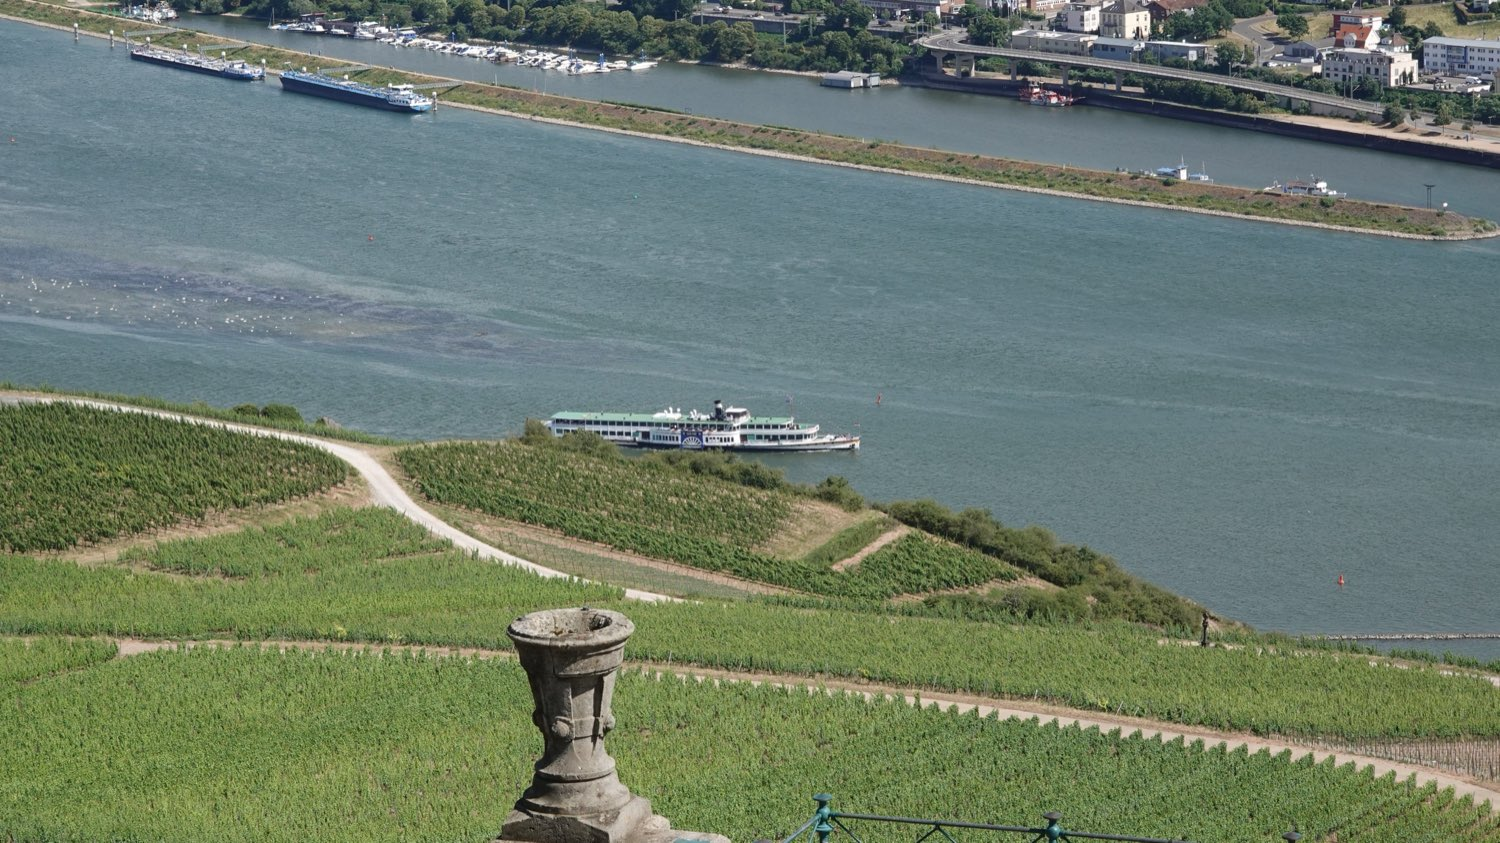
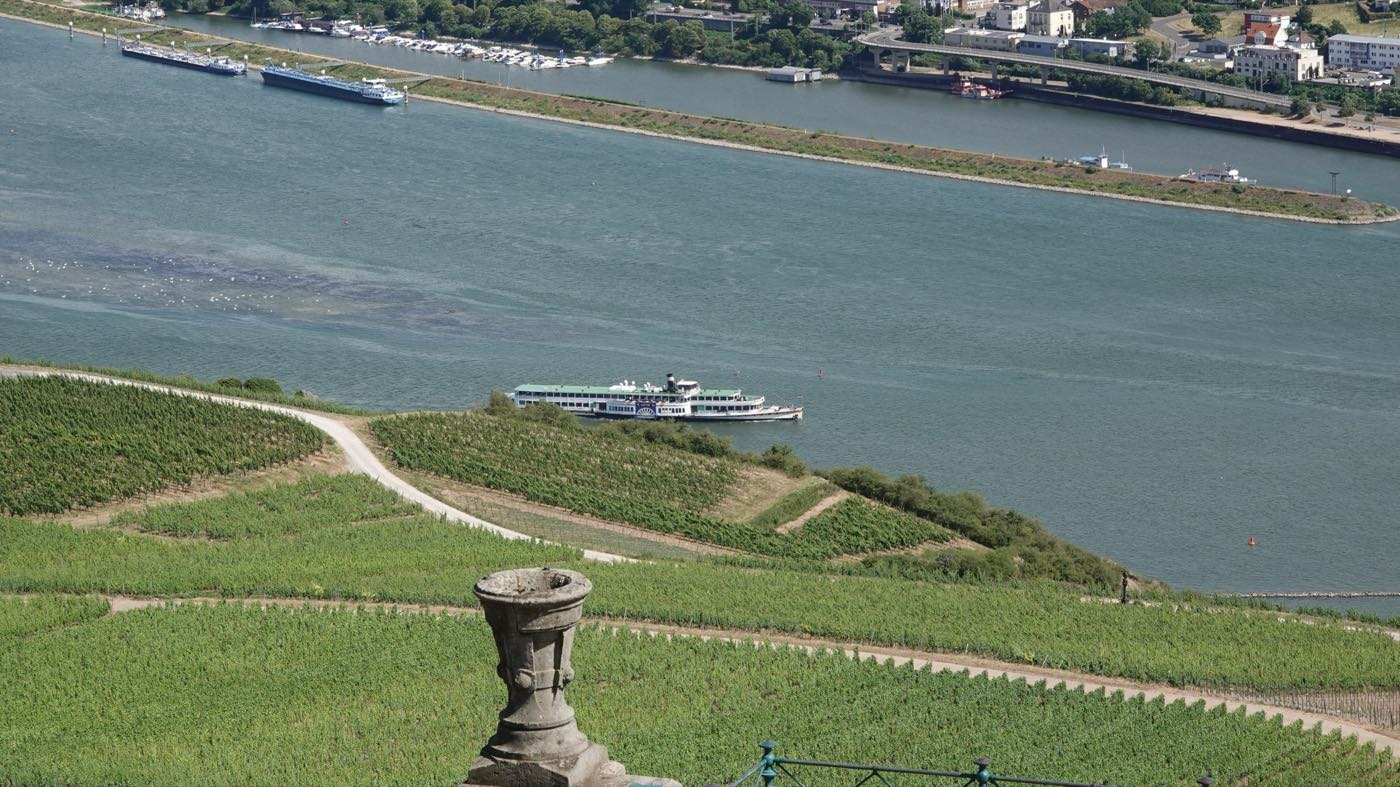
Sprachliche Korrekturen, Fußbereich am Handy einspaltig, Bilder verschlankt

Changed region(s): [[0.5221, 0.5184, 0.5529, 0.5489], [0.4607, 0.4879, 0.4914, 0.5184]]

diff --git a/aus-dem-archiv.html b/aus-dem-archiv.html
@@ -113,12 +113,12 @@
             Die Endstation der Waldbahn und späteren städtischen Straßenbahn hat die Zeiten
             dagegen fast unverändert überdauert. Am 26. Mai 1978 verabschiedeten Mitglieder
             der Schienenverkehrsfreunde dort den letzten Zug der Linie 9. Heute endet an
-            derselben Stelle die Linie 12 – und wer aussteigt, ist in keinen zehn Minuten zu
-            Fuß bei unserem Vereinsraum in Alt Schwanheim.</p>
+            derselben Stelle die Linie 12; von dort sind es zu Fuß keine zehn Minuten bis zu
+            unserem Vereinsraum in Alt Schwanheim.</p>
         </div>
         <div class="bildpaar">
           <figure class="bild">
-            <img src="bilder/bahnhof-schwanheim.jpg" width="1500" height="1000" loading="lazy"
+            <img src="bilder/bahnhof-schwanheim.jpg" width="1400" height="933" loading="lazy"
                  alt="Ein Personenzug mit der Elektrolokomotive 110 442-1 fährt am
                       Empfangsgebäude des Bahnhofs Schwanheim vorbei.">
             <figcaption>Züge fuhren noch vorbei, hielten aber nicht mehr: die Bundesbahnstation
@@ -134,8 +134,7 @@
                  alt="Ein Straßenbahnwagen der Linie 9 mit dem Zielschild „Südbahnhof“ steht an
                       der Endstation Schwanheim. An der Front hängen ein Kranz und ein Schild
                       „Letzte Fahrt der Linie 9“; daneben stehen zwei Männer.">
-            <figcaption>Und die Endstation, die blieb: Verabschiedung der letzten Fahrt
-              auf der Linie 9.
+            <figcaption>Und die Endstation, die blieb: Abschied vom letzten Zug der Linie 9.
               <span class="quelle">Schwanheim · 26. Mai 1978</span>
             </figcaption>
           </figure>
@@ -180,8 +179,8 @@
                alt="Gedrucktes Vereinszeichen: eine kleine Dampflokomotive im Seitenriss,
                     darüber in Frakturschrift „Schienenverkehrsfreunde Frankfurt (M)-Schwanheim
                     e. V.“">
-          <figcaption>Der Vereinsname steht hier noch ausgeschrieben – „Frankfurt
-            (M)-Schwanheim“ statt der heutigen Kurzform „Ffm.“.
+          <figcaption>Der Vereinsname steht hier noch ausgeschrieben: „Frankfurt
+            (M)-Schwanheim“, wo wir ihn heute zu „Ffm.“ verkürzen.
             <!-- PRÜFEN: Aus welchem Jahr stammt diese Vorlage? Bei Peter erfragen. -->
             <span class="quelle">Archiv SVS</span>
           </figcaption>
@@ -202,10 +201,10 @@
         <div class="prosa">
           <p class="marke">Und heute</p>
           <h2>Am Wappenbaum</h2>
-          <p>Am Wappenbaum der Schwanheimer Vereine hängt unser Zeichen links außen, an der
-            Ecke Schwanheimer Bahnstraße – die Straße trägt den Namen bis heute, der Bahnhof
-            ist längst weg. Der Baum steht nah genug an der Endstation, dass er sich in den
-            Scheiben der Straßenbahn spiegelt. Und unser <a href="ueber-uns.html">Schaukasten in der
+          <p>Der Wappenbaum der Schwanheimer Vereine steht an der Ecke Schwanheimer
+            Bahnstraße – die Straße trägt den Namen bis heute, der Bahnhof ist längst
+            verschwunden. Unser Zeichen hängt dort links außen, und der Baum steht so nah an
+            der Endstation, dass er sich in den Scheiben der Straßenbahn spiegelt. Und unser <a href="ueber-uns.html">Schaukasten in der
             Schwarzbachstraße</a> kommt seit jeher ganz ohne auffälliges Logo aus.</p>
           <p>Natürlich hat auch bei uns die Moderne Einzug gehalten, bis hin zu den
             Schrifttypen. Schließlich ist es der Kontrast von Altem und Neuem, der die

diff --git a/wanderfahrt.html b/wanderfahrt.html
@@ -168,15 +168,15 @@
                alt="Eine Wandergruppe in Regenjacken und mit aufgespannten Schirmen geht auf
                     einem nassen Weg auf eine Eisenbahnunterführung zu; oben auf der Brücke
                     fährt ein Zug vorbei.">
-          <figcaption>Zehn Stunden Landregen im Kinzigtal – den Weg dem Wetter anzupassen
-            kam damals nicht in Frage. Immerhin war das Tagesziel, eine Tropfsteinhöhle,
-            trocken.
+          <figcaption>Zehn Stunden Landregen im Kinzigtal. Heute würde man die Strecke
+            wohl anpassen – damals kam das nicht in Frage. Immerhin war das Tagesziel, eine
+            Tropfsteinhöhle, trocken.
             <span class="quelle">Kinzigtal · 2. Juni 1996</span>
           </figcaption>
         </figure>
 
         <figure class="bild">
-          <img src="bilder/wanderfahrt-niederwald-2025.jpg" width="1500" height="843" loading="lazy"
+          <img src="bilder/wanderfahrt-niederwald-2025.jpg" width="1400" height="787" loading="lazy"
                alt="Blick vom Niederwalddenkmal über Weinberge auf den Rhein, auf dem ein
                     Raddampfer und Frachtschiffe unterwegs sind.">
           <figcaption>Ganz anders knapp dreißig Jahre später: ungetrübter Blick vom Niederwalddenkmal

diff --git a/ueber-uns.html b/ueber-uns.html
@@ -126,11 +126,10 @@
           <h2>Der Schaukasten</h2>
           <p>In der Schwarzbachstraße 21 hängt seit fünfzig Jahren unser Schaukasten.
             Andreas Illert gestaltet ihn Monat für Monat neu und sucht dafür jedes Mal ein
-            eigenes Thema aus – gern eines, das auch Leuten Spaß macht, die sonst nicht viel
-            mit der Eisenbahn zu tun haben.</p>
-          <p>Daneben hängt immer das aktuelle Veranstaltungsprogramm. Wer vorbeikommt, weiß
-            also gleich, wann der nächste Vortrag ist – <a href="termine.html">hier stehen
-            die Termine ebenfalls</a>.</p>
+            eigenes Thema aus – gern eines, das auch für Leute interessant ist, die sonst
+            wenig mit der Eisenbahn zu tun haben.</p>
+          <p>Daneben hängt immer das aktuelle Veranstaltungsprogramm. Wer vorbeigeht, weiß
+            also gleich, wann der nächste <a href="termine.html">Vortrag</a> ansteht.</p>
         </div>
       </div>
     </div>

diff --git a/index.html b/index.html
@@ -182,8 +182,8 @@
         <article class="anriss">
           <p class="nummer">02</p>
           <h3>Termine</h3>
-          <p>Vereinsabende mit Lichtbilder- und Videovorträgen, dazu die jährliche
-            Wanderfahrt – die aktuellen Termine finden Sie auf einen Blick.</p>
+          <p>Vereinsabende mit Lichtbilder- und Videovorträgen, dazu jedes Jahr die
+            gemeinsame Wanderfahrt.</p>
           <a class="weiter" href="termine.html">Alle Termine</a>
         </article>
 
@@ -206,8 +206,8 @@
         <article class="anriss">
           <p class="nummer">05</p>
           <h3>Kontakt</h3>
-          <p>Vereinsraum Alt Schwanheim 6, Vereinsanschrift Hainbuchenstraße 41,
-            60529 Frankfurt am Main.</p>
+          <p>Wo Sie uns finden, wie Sie uns erreichen – und mit welcher Straßenbahn Sie
+            herkommen.</p>
           <a class="weiter" href="kontakt.html">Kontakt aufnehmen</a>
         </article>
       </div>

diff --git a/kontakt.html b/kontakt.html
@@ -111,7 +111,7 @@
       <div class="prosa">
         <!-- PRÜFEN: Anfahrtsbeschreibung von Peter bestätigen lassen – Linie und Fußweg
              sind aus seinen Angaben zusammengesetzt, nicht selbst abgelaufen. -->
-        <p>Die Linie 12 endet an der Haltestelle Rheinlandstraße, gut zehn Minuten zu Fuß
+        <p>Die Linie 12 endet an der Haltestelle Rheinlandstraße, keine zehn Minuten zu Fuß
           vom Vereinsraum entfernt. Es ist dieselbe Endstation, an der bis 1978 die Linie 9
           hielt – die Geschichte dazu steht
           <a href="aus-dem-archiv.html">im Archiv</a>.</p>

diff --git a/mitglied-werden.html b/mitglied-werden.html
@@ -70,7 +70,7 @@
     <div class="rahmen">
       <div class="fahrkarte">
         <div>
-          <p class="aufdruck">SVS Frankfurt (Main) Schwanheim · Gast → Mitglied</p>
+          <p class="aufdruck">SVS Ffm.-Schwanheim · Gast → Mitglied</p>
           <p>Ob Eisenbahner, Fahrgast oder einfach bahnbegeistert: Neue Gesichter sind bei
             uns jederzeit willkommen. Schreiben Sie uns – wir laden Sie gerne zu einem
             Vereinsabend ein, und Sie lernen die SVS in Ruhe kennen.</p>

diff --git a/style.css b/style.css
@@ -518,6 +518,9 @@ footer .unten{
   .fahrkarte{padding:32px 24px 32px 54px}
   .fahrkarte::before{left:26px}
   footer{margin-top:72px}
+  /* Einspaltig, sobald zwei Spalten zu eng werden: „Datenschutzerklärung“ ist ein
+     langes, unteilbares Wort und sprengte sonst das Raster nach rechts. */
+  footer .oben{grid-template-columns:1fr;gap:34px}
 }
 
 @media (prefers-reduced-motion:reduce){
